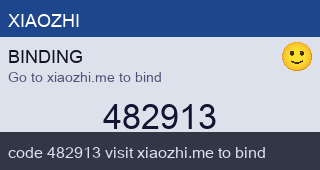
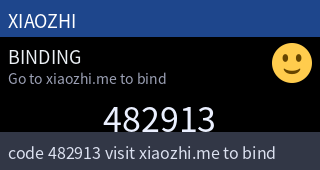
docs: refresh store previews from device

diff --git a/store/README.md b/store/README.md
@@ -11,11 +11,16 @@ This directory contains the App Store assets referenced by `app-builder.json`.
 
 ## Regenerate
 
-Create or refresh the screenshots with:
+The checked-in screenshots are generated on a CardputerZero device with the
+installed framebuffer renderer and then copied back into this directory. This
+ensures the store preview uses the same fonts, downloaded Whisplay emoji assets,
+and rendering path as the physical display.
+
+For local layout development only, approximate screenshots can be generated with:
 
 ```bash
 /private/tmp/cardputer-xiaozhi-venv/bin/python tools/generate_store_assets.py
 ```
 
-The generated screenshots are `320x170` PNG files rendered by the same `display_bridge.py`
-layout used on the framebuffer path, so they stay close to the actual device UI.
+These local images are not a replacement for the final `320x170` device-generated
+store assets.
